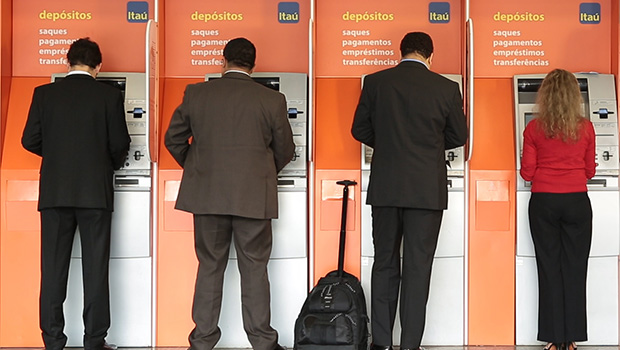
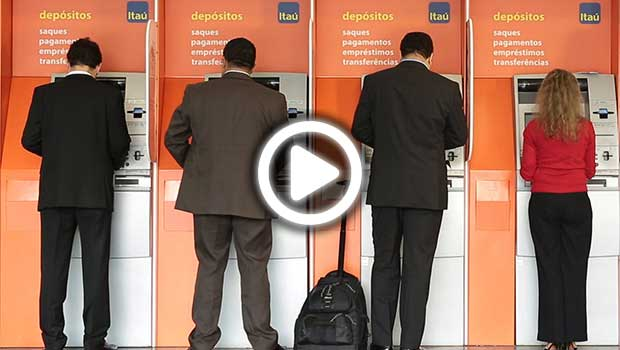
Finishing touches.

diff --git a/sites/mainframe50/enginesofprogress/story1.html b/sites/mainframe50/enginesofprogress/story1.html
@@ -99,7 +99,7 @@
 
 <p>Lorem ipsum dolor sit amet, consectetur adipisicing elit, sed do eiusmod tempor incididunt ut labore et dolore magna aliqua. Ut enim ad minim veniam, quis nostrud exercitation ullamco laboris nisi ut aliquip ex ea commodo consequat. Duis aute irure dolor in reprehenderit in voluptate velit esse cillum dolore eu fugiat nulla pariatur. Excepteur sint occaecat cupidatat non proident, sunt in culpa qui officia deserunt mollit anim id est laborum.</p>
 
-<a href="//www.youtube.com/watch?v=J-3ZmtSQiQ8" class="ibm-media"><img src="../i/story-itau.jpg" alt='First National Bank' width="620" height="350" /><span class="ibm-video-play"></span></a> 
+<a href="//www.youtube.com/watch?v=J-3ZmtSQiQ8" class="ibm-media"><img src="../i/story-itau.jpg" alt='First National Bank' width="620" height="350" /></a> 
 
 <p>Curabitur pretium tincidunt lacus. Nulla gravida orci a odio. Nullam varius, turpis et commodo pharetra, est eros bibendum elit, nec luctus magna felis sollicitudin mauris. Integer in mauris eu nibh euismod gravida. Duis ac tellus et risus vulputate vehicula. Donec lobortis risus a elit. Etiam tempor. Ut ullamcorper, ligula eu tempor congue, eros est euismod turpis, id tincidunt sapien risus a quam. Maecenas fermentum consequat mi. Donec fermentum. Pellentesque malesuada nulla a mi.</p>
 

diff --git a/sites/mainframe50/index.html b/sites/mainframe50/index.html
@@ -266,7 +266,7 @@ dojo.addOnLoad(function(){
 <p class="ibm_last">Every year, students at over 1,000 universities across 67 countries are learning to solve tomorrow’s grand challenges with the mainframe. </p>
 <p class="ibm-button-link"><a class="ibm-media ibm_cci-btn" href="https://www.youtube.com/watch?v=wAU5kCIGBNQ">Play video</a></p>
 
-<p class="ibm_last">On April 7th, 2014, the top 40 students from around the globe will meet in New York City for the first ever Master the Mainframe World Championship.</p>
+<p class="ibm_last">On April 7th, 2014, the top 43 students from around the globe will meet in New York City for the first ever Master the Mainframe World Championship.</p>
 <p class="ibm-button-link"><a class="ibm_cci-btn" href="http://www.ibm.com/systems/z/masterthemainframe">Learn about the World Championship</a></p>
 </div>
 

diff --git a/sites/mainframe50/css/ww_cci.css b/sites/mainframe50/css/ww_cci.css
@@ -307,7 +307,7 @@ sites/
 
 #ibm-content ul.ibm-portrait-module-list p {
   font-family: HelvLightIBM;
-  font-size: 1.4rem;
+  font-size: 1.5rem;
 }
 
 #ibm-content li.ibm-portrait-module-list {

diff --git a/sites/mainframe50/css/scss/_ww_cci.scss b/sites/mainframe50/css/scss/_ww_cci.scss
@@ -292,7 +292,7 @@
 
 #ibm-content ul.ibm-portrait-module-list p {
 	font-family: HelvLightIBM; 
-	font-size: 1.4rem;	
+	font-size: 1.5rem;	
 }
 
 #ibm-content li.ibm-portrait-module-list {
